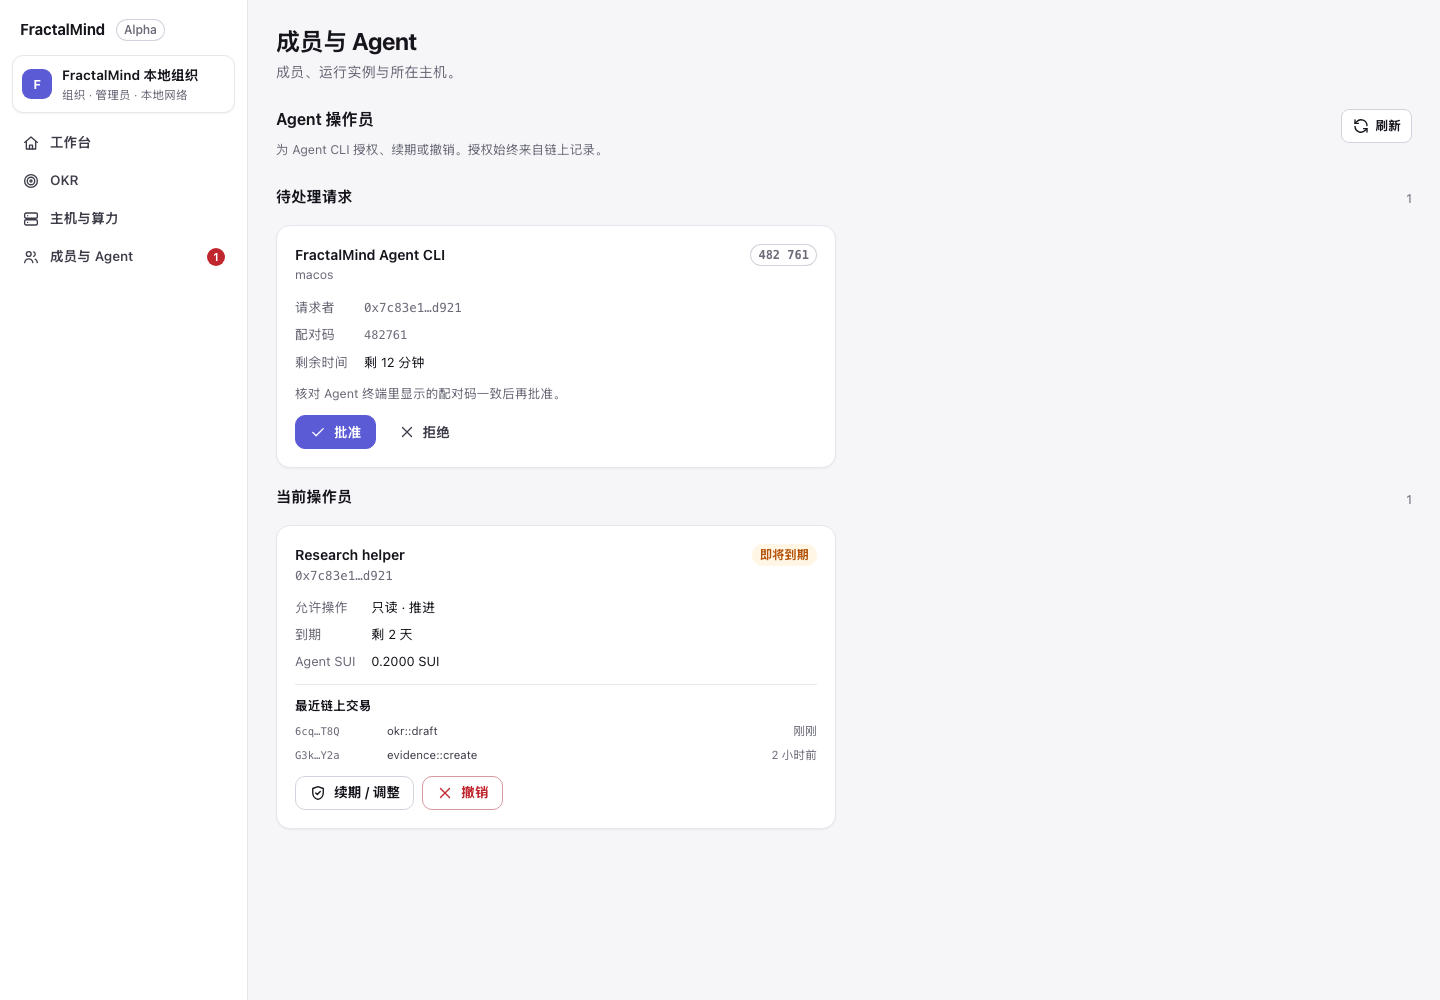
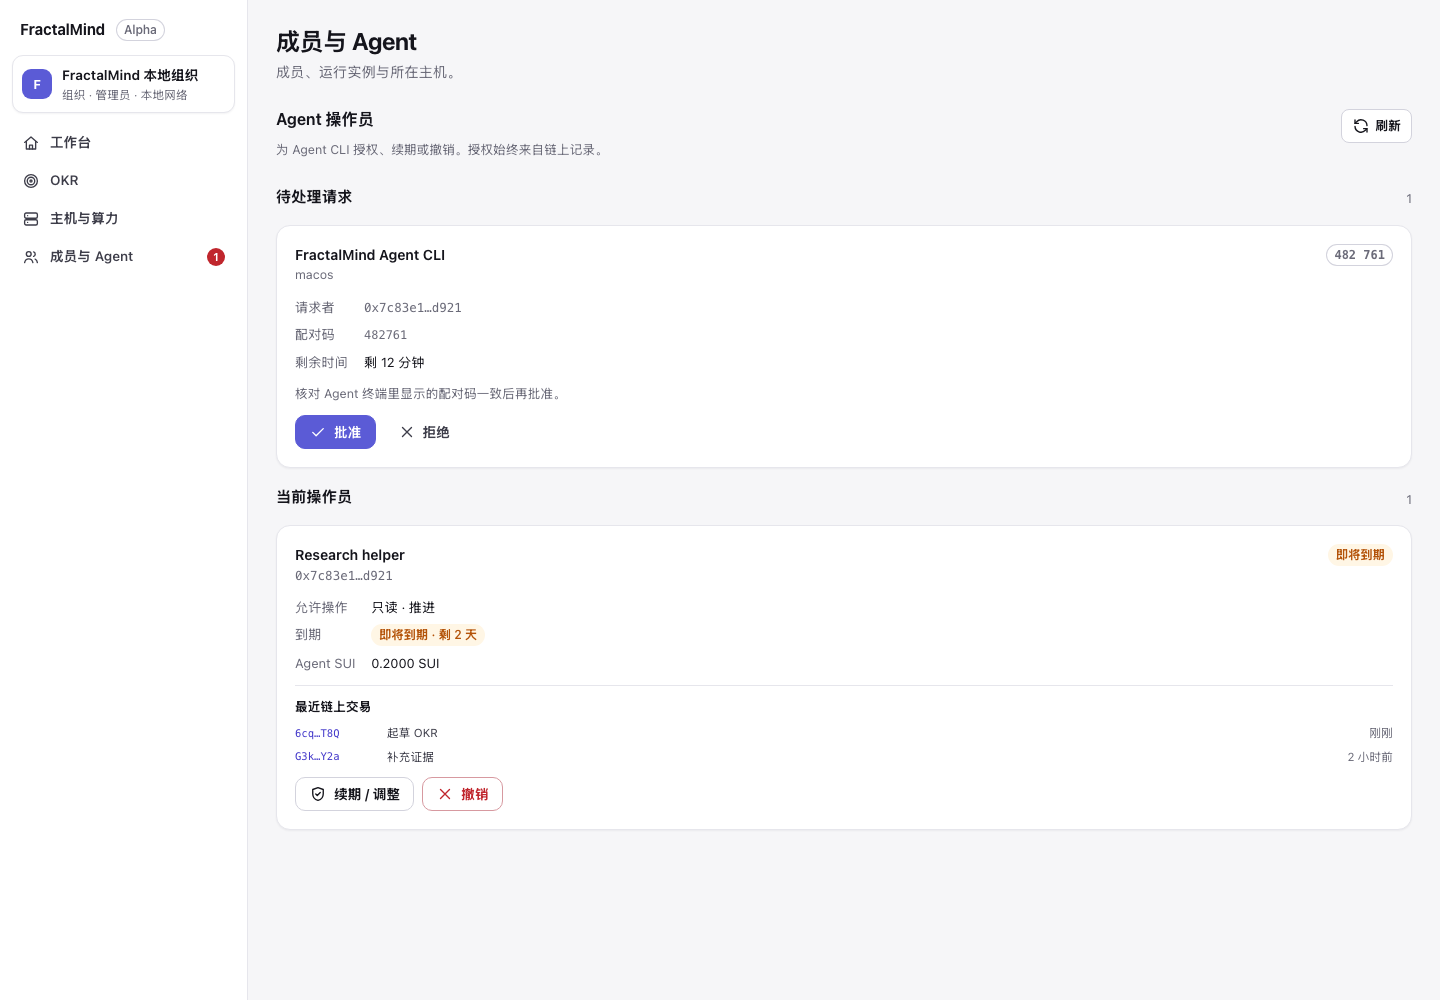
fix(app): polish agent operator cards

diff --git a/apps/fractalmind-app/src/v2/pages/AgentOperators.tsx b/apps/fractalmind-app/src/v2/pages/AgentOperators.tsx
@@ -9,6 +9,7 @@ import { NativeDeviceSigner } from "../../native-device";
 import { AgentOperatorFlow, AgentOperatorFlowError, type AgentOperatorOperation } from "../../agent-operator-flow";
 import {
   AGENT_OPERATOR_EXPIRY_CHOICES,
+  agentActivityKind,
   allowedActionLabel,
   defaultAgentFundingMist,
   isNearExpiry,
@@ -22,6 +23,16 @@ import { useAgentOperatorDirectory } from "../agent-operator-directory";
 function actionText(actions: readonly number[], t: (zh: string, en: string) => string) {
   const kind = allowedActionLabel([...actions]);
   return kind === "read" ? t("只读", "Read-only") : kind === "read_operate" ? t("只读 · 推进", "Read + operate") : t("权限数据无效", "Invalid permission data");
+}
+function activityText(functionName: string, t: (zh: string, en: string) => string) {
+  return t(
+    ({ draft_okr: "起草 OKR", add_evidence: "补充证据", send_message: "发消息", pause_run: "暂停 Run", request_approval: "发审批请求", other: "其他链上操作" } as const)[agentActivityKind(functionName)],
+    ({ draft_okr: "Draft OKR", add_evidence: "Add evidence", send_message: "Send message", pause_run: "Pause Run", request_approval: "Request approval", other: "Other on-chain activity" } as const)[agentActivityKind(functionName)],
+  );
+}
+function transactionHref(network: string | undefined, digest: string) {
+  const networkName = network === "mainnet" ? "mainnet" : network ?? "localnet";
+  return `https://suiscan.xyz/${encodeURIComponent(networkName)}/txblock/${encodeURIComponent(digest)}`;
 }
 function failureText(error: unknown, t: (zh: string, en: string) => string) {
   const code = error instanceof AgentOperatorFlowError ? error.code : "unavailable";
@@ -182,10 +193,11 @@ function PendingCard({ request, open }: { request: AgentOperatorDirectory["pendi
 function OperatorCard({ row, open }: { row: AgentOperatorRow; open: (kind: "change" | "revoke" | "fund") => void }) {
   const t = useT(); const lang = useLang(); const app = useApp();
   const allowed = isTauri() && app.profile?.network === "localnet" && Boolean(app.permission?.approve);
+  const nearExpiry = isNearExpiry(row.grant.expires_at_ms, app.now);
   return <article className="card operator-card">
-    <div className="row between top"><div><div className="strong">{row.label}</div><div className="small muted"><CopyAddress value={row.grant.device} /></div></div><span className={`chip ${isNearExpiry(row.grant.expires_at_ms, app.now) ? "warn" : "outline"}`}>{isNearExpiry(row.grant.expires_at_ms, app.now) ? t("即将到期", "Expiring soon") : t("有效", "Active")}</span></div>
-    <dl className="kv mt-12"><dt>{t("允许操作", "Allowed")}</dt><dd>{actionText(row.grant.actions, t)}</dd><dt>{t("到期", "Expires")}</dt><dd>{until(Number(row.grant.expires_at_ms), t, Number(app.now))}</dd><dt>{t("Agent SUI", "Agent SUI")}</dt><dd>{sui(row.balance)}</dd></dl>
-    <div className="operator-activity mt-12"><div className="small strong">{t("最近链上交易", "Recent on-chain transactions")}</div>{row.activity.length ? <ul>{row.activity.map((item) => <li key={item.digest}><code>{shortId(item.digest, 8)}</code><span>{item.function}</span><span>{dateTime(item.at, lang)}</span></li>)}</ul> : <p className="small muted">{t("还没有可显示的交易。", "No transactions to show yet.")}</p>}</div>
+    <div className="operator-card-header"><div><div className="strong">{row.label}</div><div className="small muted"><CopyAddress value={row.grant.device} /></div></div><span className={`chip ${nearExpiry ? "warn" : "outline"}`}>{nearExpiry ? t("即将到期", "Expiring soon") : t("有效", "Active")}</span></div>
+    <dl className="kv mt-12"><dt>{t("允许操作", "Allowed")}</dt><dd>{actionText(row.grant.actions, t)}</dd><dt>{t("到期", "Expires")}</dt><dd>{nearExpiry ? <span className="chip warn">{t(`即将到期 · ${until(Number(row.grant.expires_at_ms), t, Number(app.now))}`, `Expiring soon · ${until(Number(row.grant.expires_at_ms), t, Number(app.now))}`)}</span> : until(Number(row.grant.expires_at_ms), t, Number(app.now))}</dd><dt>{t("Agent SUI", "Agent SUI")}</dt><dd>{sui(row.balance)}</dd></dl>
+    <div className="operator-activity mt-12"><div className="small strong">{t("最近链上交易", "Recent on-chain transactions")}</div>{row.activity.length ? <ul>{row.activity.map((item) => <li key={item.digest}><a className="mono" href={transactionHref(app.profile?.network, item.digest)} target="_blank" rel="noreferrer" aria-label={t(`查看交易 ${item.digest}`, `View transaction ${item.digest}`)}>{shortId(item.digest, 8)}</a><span>{activityText(item.function, t)}</span><span>{dateTime(item.at, lang)}</span></li>)}</ul> : <p className="small muted">{t("还没有可显示的交易。", "No transactions to show yet.")}</p>}</div>
     <div className="row wrap mt-12"><Btn label={t("续期 / 调整", "Renew / adjust")} icon="shield" disabled={!allowed} why={t("需要本机的审批权限", "This device needs approval permission")} onClick={() => open("change")} /><Btn label={t("转入手续费", "Transfer fee funds")} icon="plus" disabled={!allowed} why={t("需要本机的审批权限", "This device needs approval permission")} onClick={() => open("fund")} /><Btn label={t("撤销", "Revoke")} icon="x" kind="danger" disabled={!allowed} why={t("需要本机的审批权限", "This device needs approval permission")} onClick={() => open("revoke")} /></div>
   </article>;
 }
@@ -201,8 +213,8 @@ export default function AgentOperators() {
   return <section className="sec agent-operators" aria-label={t("Agent 操作员", "Agent operators")}>
     <div className="sec-h"><div><h2>{t("Agent 操作员", "Agent operators")}</h2><p className="small muted">{t("为 Agent CLI 授权、续期或撤销。授权始终来自链上记录。", "Authorize, renew, or revoke Agent CLI access. Authority always comes from the chain.")}</p></div><Btn label={t("刷新", "Refresh")} icon="refresh" size="sm" onClick={refresh} /></div>
     {!app.profile ? <div className="note info"><Icon name="help" /><div>{t("连接本地网络后可查看 Agent 操作员。", "Connect to localnet to view Agent operators.")}</div></div> : app.profile.network !== "localnet" ? <div className="note info"><Icon name="help" /><div>{t("此 Alpha 页面只在本地网络运行；不会在测试网或主网发起交易。", "This alpha page runs on localnet only; it will not initiate testnet or mainnet transactions.")}</div></div> : state.kind === "loading" ? <div className="note info"><Icon name="refresh" className="spin" /><div>{t("正在从链上读取 Agent 操作员…", "Reading Agent operators from the chain…")}</div></div> : state.kind === "error" ? <div className="note warn"><Icon name="help" /><div>{t("无法验证链上的 Agent 操作员记录。请刷新后重试。", "Could not verify Agent operator records on-chain. Refresh and try again.")}</div></div> : <>
-      <section className="operator-section"><div className="sec-h"><h3>{t("待处理请求", "Pending requests")}</h3><span className="small muted">{pending.length}</span></div>{pending.length ? <div className="grid-2">{pending.map((request) => <PendingCard key={request.request.id} request={request} open={(kind) => setSelected({ kind, request })} />)}</div> : <p className="small muted">{t("没有待处理的 Agent 配对请求。", "No pending Agent pairing requests.")}</p>}</section>
-      <section className="operator-section"><div className="sec-h"><h3>{t("当前操作员", "Active operators")}</h3><span className="small muted">{active.length}</span></div>{active.length ? <div className="grid-2">{active.map((row) => <OperatorCard key={row.grant.id} row={row} open={(kind) => setSelected({ kind, row })} />)}</div> : <p className="small muted">{t("还没有正在生效的 Agent 操作员。", "No active Agent operators yet.")}</p>}</section>
+      <section className="operator-section"><div className="sec-h"><h3>{t("待处理请求", "Pending requests")}</h3><span className="small muted">{pending.length}</span></div>{pending.length ? <div className="operator-grid">{pending.map((request) => <PendingCard key={request.request.id} request={request} open={(kind) => setSelected({ kind, request })} />)}</div> : <p className="small muted">{t("没有待处理的 Agent 配对请求。", "No pending Agent pairing requests.")}</p>}</section>
+      <section className="operator-section"><div className="sec-h"><h3>{t("当前操作员", "Active operators")}</h3><span className="small muted">{active.length}</span></div>{active.length ? <div className="operator-grid">{active.map((row) => <OperatorCard key={row.grant.id} row={row} open={(kind) => setSelected({ kind, row })} />)}</div> : <p className="small muted">{t("还没有正在生效的 Agent 操作员。", "No active Agent operators yet.")}</p>}</section>
       {inactive.length > 0 && <details className="operator-inactive"><summary>{t("已撤销 / 已过期", "Revoked / expired")} <span className="small muted">{inactive.length}</span></summary><div className="grid-2 mt-12">{inactive.map((row) => <article className="card" key={row.grant.id}><div className="strong">{row.label}</div><div className="small muted">{actionText(row.grant.actions, t)} · {row.grant.revoked ? t("已撤销", "Revoked") : t("已过期", "Expired")}</div><CopyAddress value={row.grant.device} /></article>)}</div></details>}
     </>}
     {selected?.kind === "approve" && <RequestDialog request={selected.request} onClose={() => setSelected(null)} done={() => { refresh(); }} />}

diff --git a/apps/fractalmind-app/src/v2/agent-operator-mock.tsx b/apps/fractalmind-app/src/v2/agent-operator-mock.tsx
@@ -15,8 +15,8 @@ function MockPage({ state }: { state: string }) {
     <main className="main"><div className="page">
       <div className="page-h"><div><h1>{t("成员与 Agent", "Members & Agents")}</h1><p className="muted">{t("成员、运行实例与所在主机。", "Members, running instances, and their hosts.")}</p></div></div>
       <section className="sec agent-operators"><div className="sec-h"><div><h2>{t("Agent 操作员", "Agent operators")}</h2><p className="small muted">{t("为 Agent CLI 授权、续期或撤销。授权始终来自链上记录。", "Authorize, renew, or revoke Agent CLI access. Authority always comes from the chain.")}</p></div><button className="btn sm"><Icon name="refresh" />{t("刷新", "Refresh")}</button></div>
-        {!active && <section className="operator-section"><div className="sec-h"><h3>{t("待处理请求", "Pending requests")}</h3><span className="small muted">1</span></div><div className="grid-2"><article className="card operator-card"><div className="row between top"><div><div className="strong">FractalMind Agent CLI</div><div className="small muted">macos</div></div><span className="chip outline mono">482 761</span></div><dl className="kv mt-12"><dt>{t("请求者", "Requester")}</dt><dd><code className="mono small">0x7c83e1…d921</code></dd><dt>{t("配对码", "Pairing code")}</dt><dd><code className="mono">482761</code></dd><dt>{t("剩余时间", "Time left")}</dt><dd>{t("剩 12 分钟", "12 min left")}</dd></dl><p className="small muted mt-12">{t("核对 Agent 终端里显示的配对码一致后再批准。", "Compare the pairing code shown in the Agent terminal before approving.")}</p><div className="row wrap mt-12"><button className="btn primary"><Icon name="check" />{t("批准", "Approve")}</button><button className="btn ghost"><Icon name="x" />{t("拒绝", "Reject")}</button></div></article></div></section>}
-        <section className="operator-section"><div className="sec-h"><h3>{t("当前操作员", "Active operators")}</h3><span className="small muted">1</span></div><div className="grid-2"><article className="card operator-card"><div className="row between top"><div><div className="strong">Research helper</div><div className="small muted mono">0x7c83e1…d921</div></div><span className="chip warn">{t("即将到期", "Expiring soon")}</span></div><dl className="kv mt-12"><dt>{t("允许操作", "Allowed")}</dt><dd>{t("只读 · 推进", "Read + operate")}</dd><dt>{t("到期", "Expires")}</dt><dd>{t("剩 2 天", "2 days left")}</dd><dt>{t("Agent SUI", "Agent SUI")}</dt><dd>0.2000 SUI</dd></dl><div className="operator-activity mt-12"><div className="small strong">{t("最近链上交易", "Recent on-chain transactions")}</div><ul><li><code>6cq…T8Q</code><span>okr::draft</span><span>{t("刚刚", "just now")}</span></li><li><code>G3k…Y2a</code><span>evidence::create</span><span>{t("2 小时前", "2 h ago")}</span></li></ul></div><div className="row wrap mt-12"><button className="btn"><Icon name="shield" />{t("续期 / 调整", "Renew / adjust")}</button><button className="btn danger"><Icon name="x" />{t("撤销", "Revoke")}</button></div></article></div></section>
+        {!active && <section className="operator-section"><div className="sec-h"><h3>{t("待处理请求", "Pending requests")}</h3><span className="small muted">1</span></div><div className="operator-grid"><article className="card operator-card"><div className="operator-card-header"><div><div className="strong">FractalMind Agent CLI</div><div className="small muted">macos</div></div><span className="chip outline mono">482 761</span></div><dl className="kv mt-12"><dt>{t("请求者", "Requester")}</dt><dd><code className="mono small">0x7c83e1…d921</code></dd><dt>{t("配对码", "Pairing code")}</dt><dd><code className="mono">482761</code></dd><dt>{t("剩余时间", "Time left")}</dt><dd>{t("剩 12 分钟", "12 min left")}</dd></dl><p className="small muted mt-12">{t("核对 Agent 终端里显示的配对码一致后再批准。", "Compare the pairing code shown in the Agent terminal before approving.")}</p><div className="row wrap mt-12"><button className="btn primary"><Icon name="check" />{t("批准", "Approve")}</button><button className="btn ghost"><Icon name="x" />{t("拒绝", "Reject")}</button></div></article></div></section>}
+        <section className="operator-section"><div className="sec-h"><h3>{t("当前操作员", "Active operators")}</h3><span className="small muted">1</span></div><div className="operator-grid"><article className="card operator-card"><div className="operator-card-header"><div><div className="strong">Research helper</div><div className="small muted mono">0x7c83e1…d921</div></div><span className="chip warn">{t("即将到期", "Expiring soon")}</span></div><dl className="kv mt-12"><dt>{t("允许操作", "Allowed")}</dt><dd>{t("只读 · 推进", "Read + operate")}</dd><dt>{t("到期", "Expires")}</dt><dd><span className="chip warn">{t("即将到期 · 剩 2 天", "Expiring soon · 2 days left")}</span></dd><dt>{t("Agent SUI", "Agent SUI")}</dt><dd>0.2000 SUI</dd></dl><div className="operator-activity mt-12"><div className="small strong">{t("最近链上交易", "Recent on-chain transactions")}</div><ul><li><a className="mono" href="#transaction-6cqT8Q">6cq…T8Q</a><span>{t("起草 OKR", "Draft OKR")}</span><span>{t("刚刚", "just now")}</span></li><li><a className="mono" href="#transaction-G3kY2a">G3k…Y2a</a><span>{t("补充证据", "Add evidence")}</span><span>{t("2 小时前", "2 h ago")}</span></li></ul></div><div className="row wrap mt-12"><button className="btn"><Icon name="shield" />{t("续期 / 调整", "Renew / adjust")}</button><button className="btn danger"><Icon name="x" />{t("撤销", "Revoke")}</button></div></article></div></section>
       </section>
     </div></main>
     {state === "approve" && <Dialog title={t("批准 Agent 授权", "Approve Agent authorization")} sub={t("先在 Agent 终端核对这组配对码。", "First compare this code in the Agent terminal.")} onClose={() => {}} footer={<><button className="btn primary"><Icon name="shield" />{t("获取费用报价", "Get fee quote")}</button><button className="btn ghost">{t("取消", "Cancel")}</button></>}><div className="note info"><Icon name="shield" /><div>{t("Agent 永远不能审批、管理主机或改权限；这些仍需你在这台设备上签名。", "An Agent can never approve, manage hosts, or change permissions; you still sign those actions on this device.")}</div></div><div className="operator-request-summary"><span className="strong">FractalMind Agent CLI</span><span className="chip outline mono">482761</span></div><label className="check"><input type="checkbox" checked readOnly /> {t("只读", "Read-only")}</label><label className="check"><input type="checkbox" /> {t("推进（起草 OKR、补证据、建任务、对话、暂停 Run）", "Operate (draft OKRs, add evidence, create tasks, chat, pause Runs)")}</label><label>{t("到期时间", "Expires")}<select defaultValue="7"><option value="7">{t("7 天", "7 days")}</option><option value="30">{t("30 天", "30 days")}</option></select></label><label>{t("授权名称", "Authorization label")}<input defaultValue="FractalMind Agent CLI" /></label><label className="check"><input type="checkbox" /> {t("同时转入手续费（授权后单独确认）", "Transfer fee funds too (confirm separately after approval)")}</label></Dialog>}

diff --git a/apps/fractalmind-app/src/agent-operators.ts b/apps/fractalmind-app/src/agent-operators.ts
@@ -64,6 +64,45 @@ type TransactionLike = {
 };
 export type AgentActivity = { digest: string; at: number | null; function: string };
 
+export type AgentActivityKind =
+  | "draft_okr"
+  | "add_evidence"
+  | "send_message"
+  | "pause_run"
+  | "request_approval"
+  | "other";
+
+/** Convert only the small, documented Agent CLI write surface into a human
+ * activity label. A new or unrecognized Move call must stay visibly generic. */
+export function agentActivityKind(functionName: string): AgentActivityKind {
+  switch (functionName) {
+    case "okr::draft":
+    case "okr::create_draft":
+    case "okr::update_draft":
+      return "draft_okr";
+    case "evidence::create":
+    case "evidence::add":
+      return "add_evidence";
+    case "agent::message":
+    case "agent::send_message":
+    case "direct_agent::send_message":
+      return "send_message";
+    case "node_execution::request_stop":
+    case "node_execution::request_stop_with_budget":
+    case "node_execution::request_stop_with_budget_v2":
+    case "node_execution::request_stop_with_contract":
+    case "node_execution::request_stop_with_contract_v2":
+    case "okr::request_stop_v2":
+      return "pause_run";
+    case "approval::request":
+    case "product_record::request_approval":
+    case "review::create_review":
+      return "request_approval";
+    default:
+      return "other";
+  }
+}
+
 /** Parse only public receipt fields; malformed items do not become activity. */
 export function parseAgentActivity(rows: readonly TransactionLike[], limit = 10): AgentActivity[] {
   if (!Number.isInteger(limit) || limit < 1 || limit > 100) throw new RangeError("Invalid activity limit.");

diff --git a/apps/fractalmind-app/src/v2/app.css b/apps/fractalmind-app/src/v2/app.css
@@ -13,7 +13,10 @@ a.item:hover { background: var(--hover); }
 .agent-operators > .sec-h { align-items: flex-start; }
 .operator-section { margin-top: 18px; }
 .operator-section h3 { font-size: 15px; }
-.operator-card { min-width: 0; }
+.operator-grid { display: grid; grid-template-columns: repeat(auto-fit, minmax(min(100%, 440px), 1fr)); gap: 16px; min-width: 0; }
+.operator-card { width: 100%; max-width: 100%; min-width: 0; overflow-wrap: anywhere; }
+.operator-card-header { display: grid; grid-template-columns: minmax(0, 1fr) auto; gap: 10px; align-items: start; min-width: 0; }
+.operator-card-header > :first-child { min-width: 0; }
 .operator-request-summary { display: flex; align-items: center; justify-content: space-between; gap: 10px; padding: 10px 12px; border-radius: 10px; background: var(--surface-2); }
 .operator-activity { border-top: 1px solid var(--border); padding-top: 11px; }
 .operator-activity ul { list-style: none; padding: 0; margin: 7px 0 0; display: grid; gap: 6px; }
@@ -30,6 +33,8 @@ a.item:hover { background: var(--hover); }
 .dialog .note { min-width: 0; }
 .dialog .note > div { min-width: 0; flex: 1 1 auto; overflow-wrap: anywhere; word-break: break-all; }
 @media (max-width: 680px) {
+  .operator-grid { grid-template-columns: minmax(0, 1fr); }
+  .operator-card { overflow: hidden; }
   .operator-activity li { grid-template-columns: 75px minmax(0, 1fr); }
   .operator-activity li span:last-child { grid-column: 2; }
 }

diff --git a/apps/fractalmind-app/tests/agent-operators.test.ts b/apps/fractalmind-app/tests/agent-operators.test.ts
@@ -3,6 +3,7 @@ import assert from "node:assert/strict";
 import { DEVICE_ACTIONS } from "@fractalmind-labs/fractalmind-sdk";
 import {
   AGENT_OPERATOR_MAX_DAYS,
+  agentActivityKind,
   allowedActionLabel,
   isNearExpiry,
   isOrdinaryDevicePairing,
@@ -55,4 +56,14 @@ test("activity parsing keeps receipt time, digest and Move function only", () =>
       { digest: "bad", at: null, function: "—" },
     ],
   );
+});
+
+test("operator activity labels expose only the documented human actions", () => {
+  assert.equal(agentActivityKind("okr::draft"), "draft_okr");
+  assert.equal(agentActivityKind("evidence::create"), "add_evidence");
+  assert.equal(agentActivityKind("agent::send_message"), "send_message");
+  assert.equal(agentActivityKind("node_execution::request_stop_with_budget_v2"), "pause_run");
+  assert.equal(agentActivityKind("okr::request_stop_v2"), "pause_run");
+  assert.equal(agentActivityKind("approval::request"), "request_approval");
+  assert.equal(agentActivityKind("identity::approve_agent_operator"), "other");
 });
